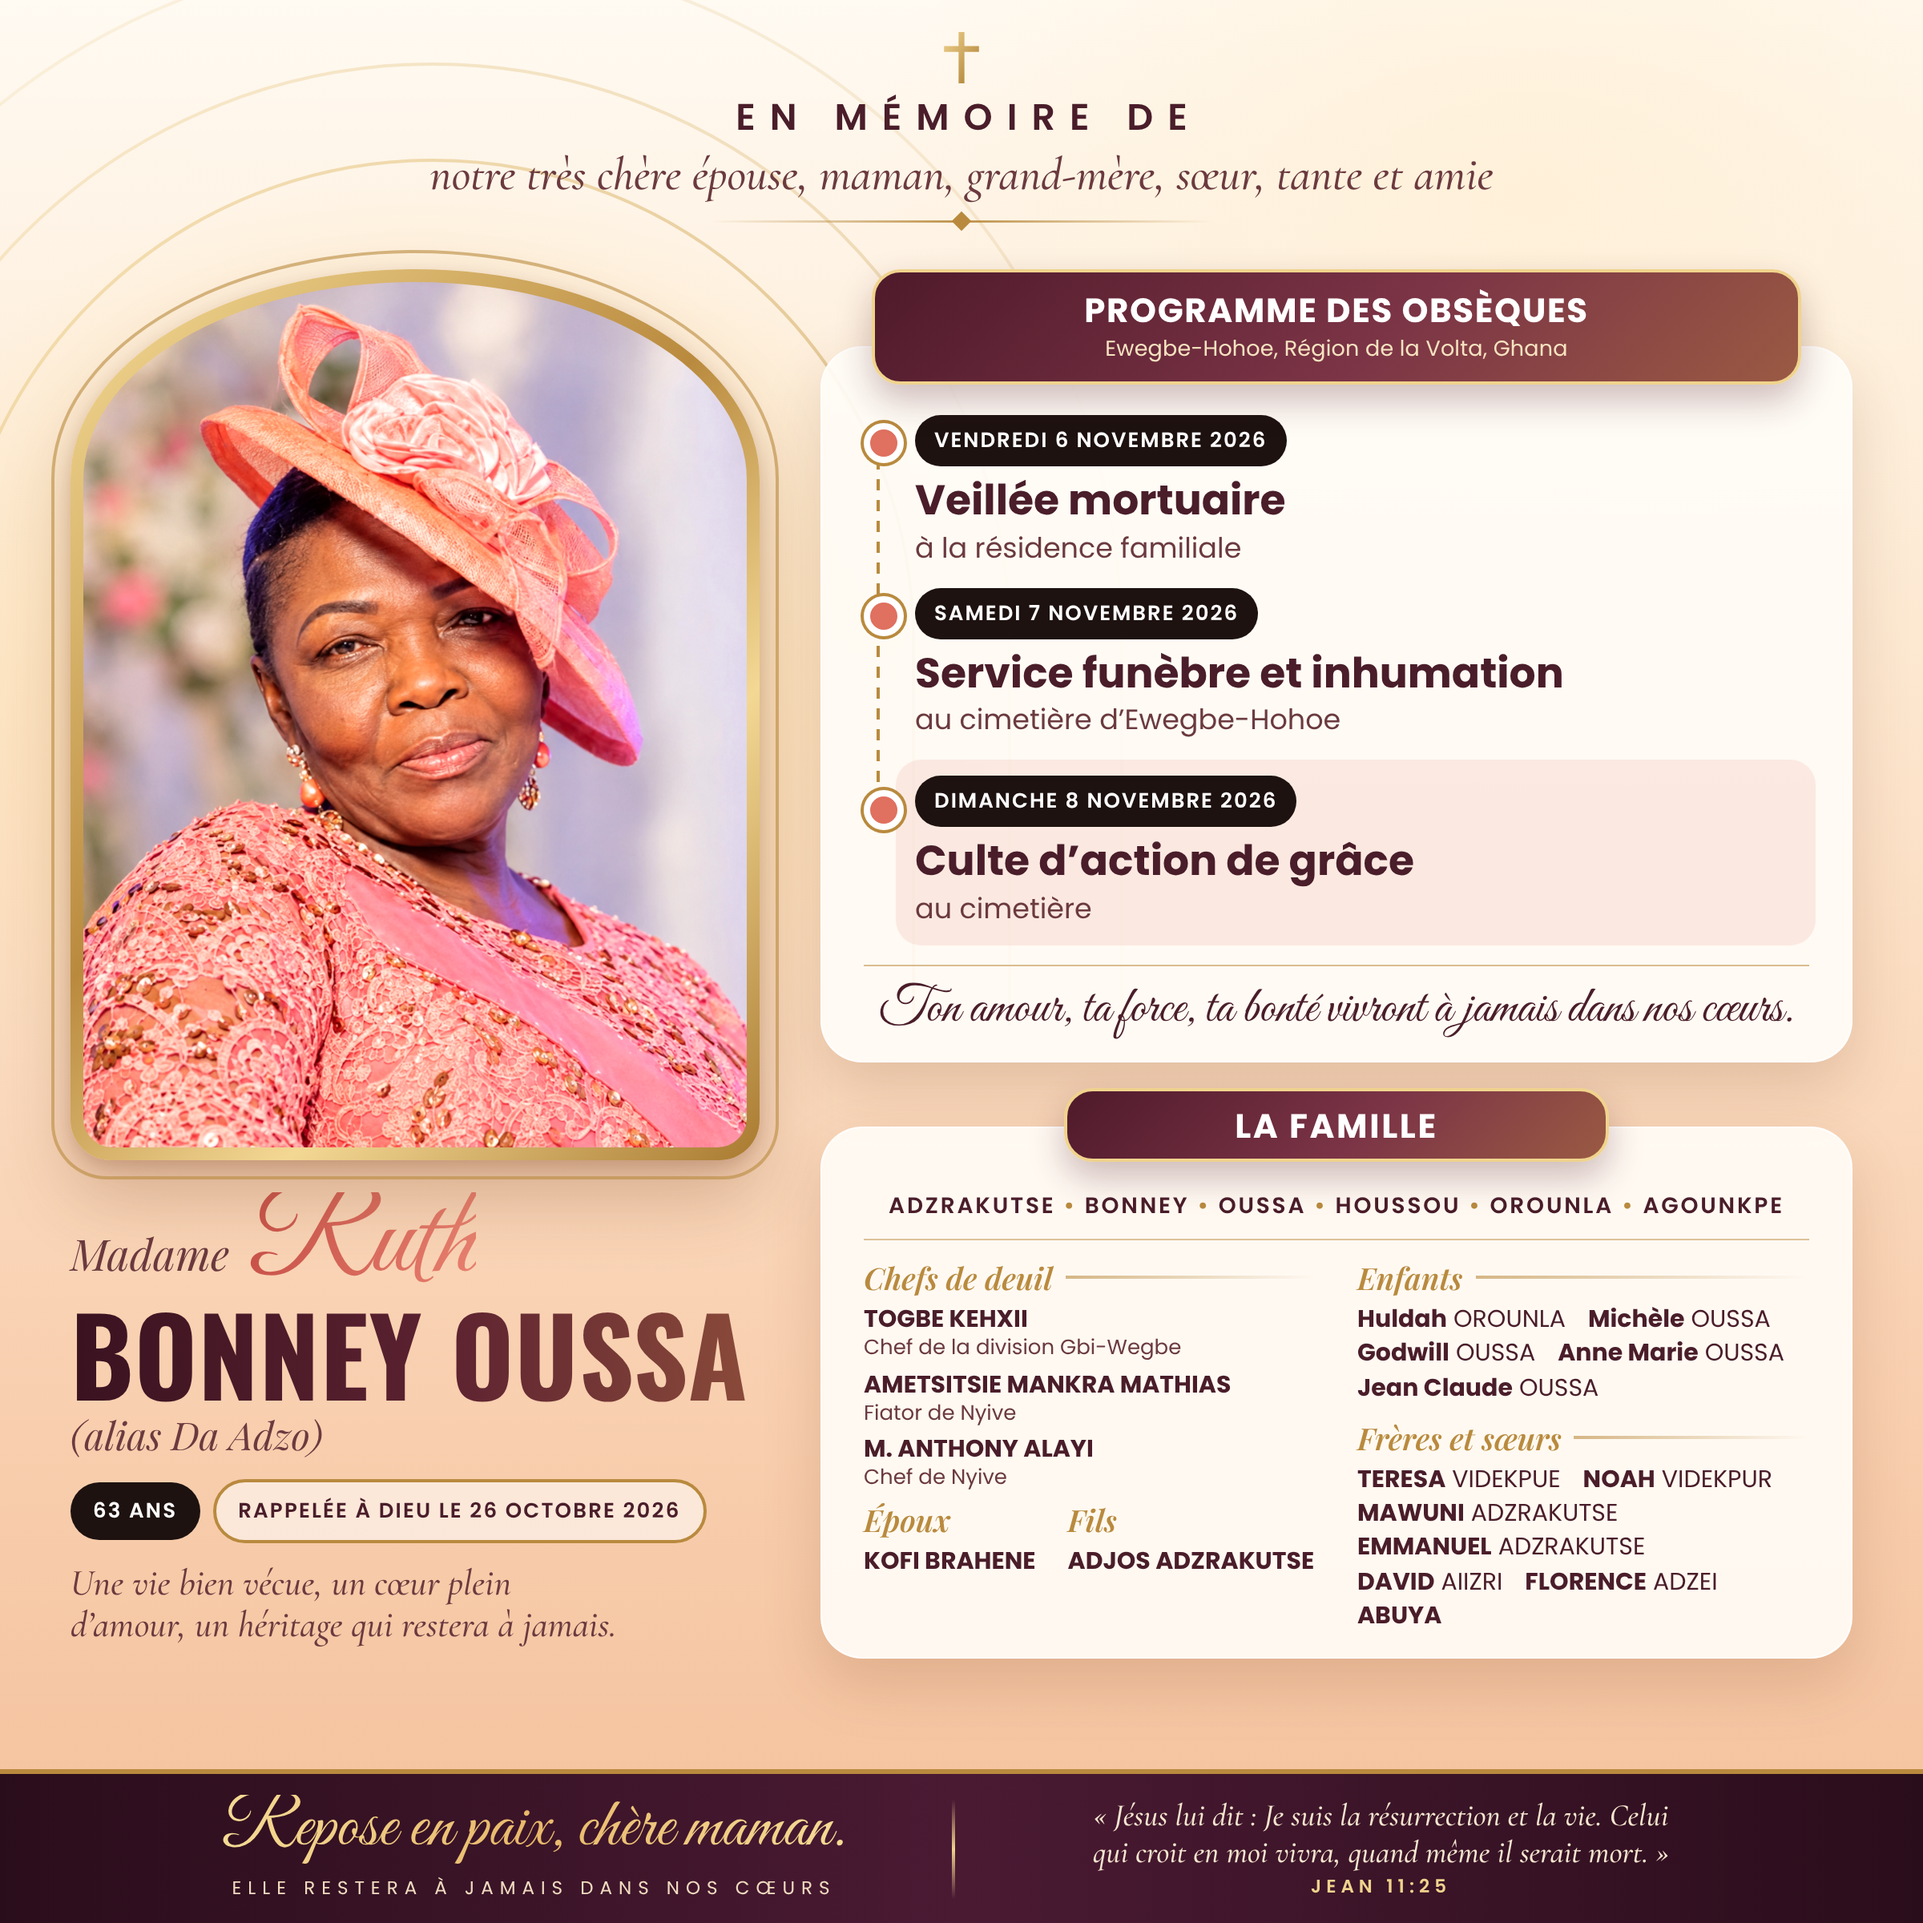
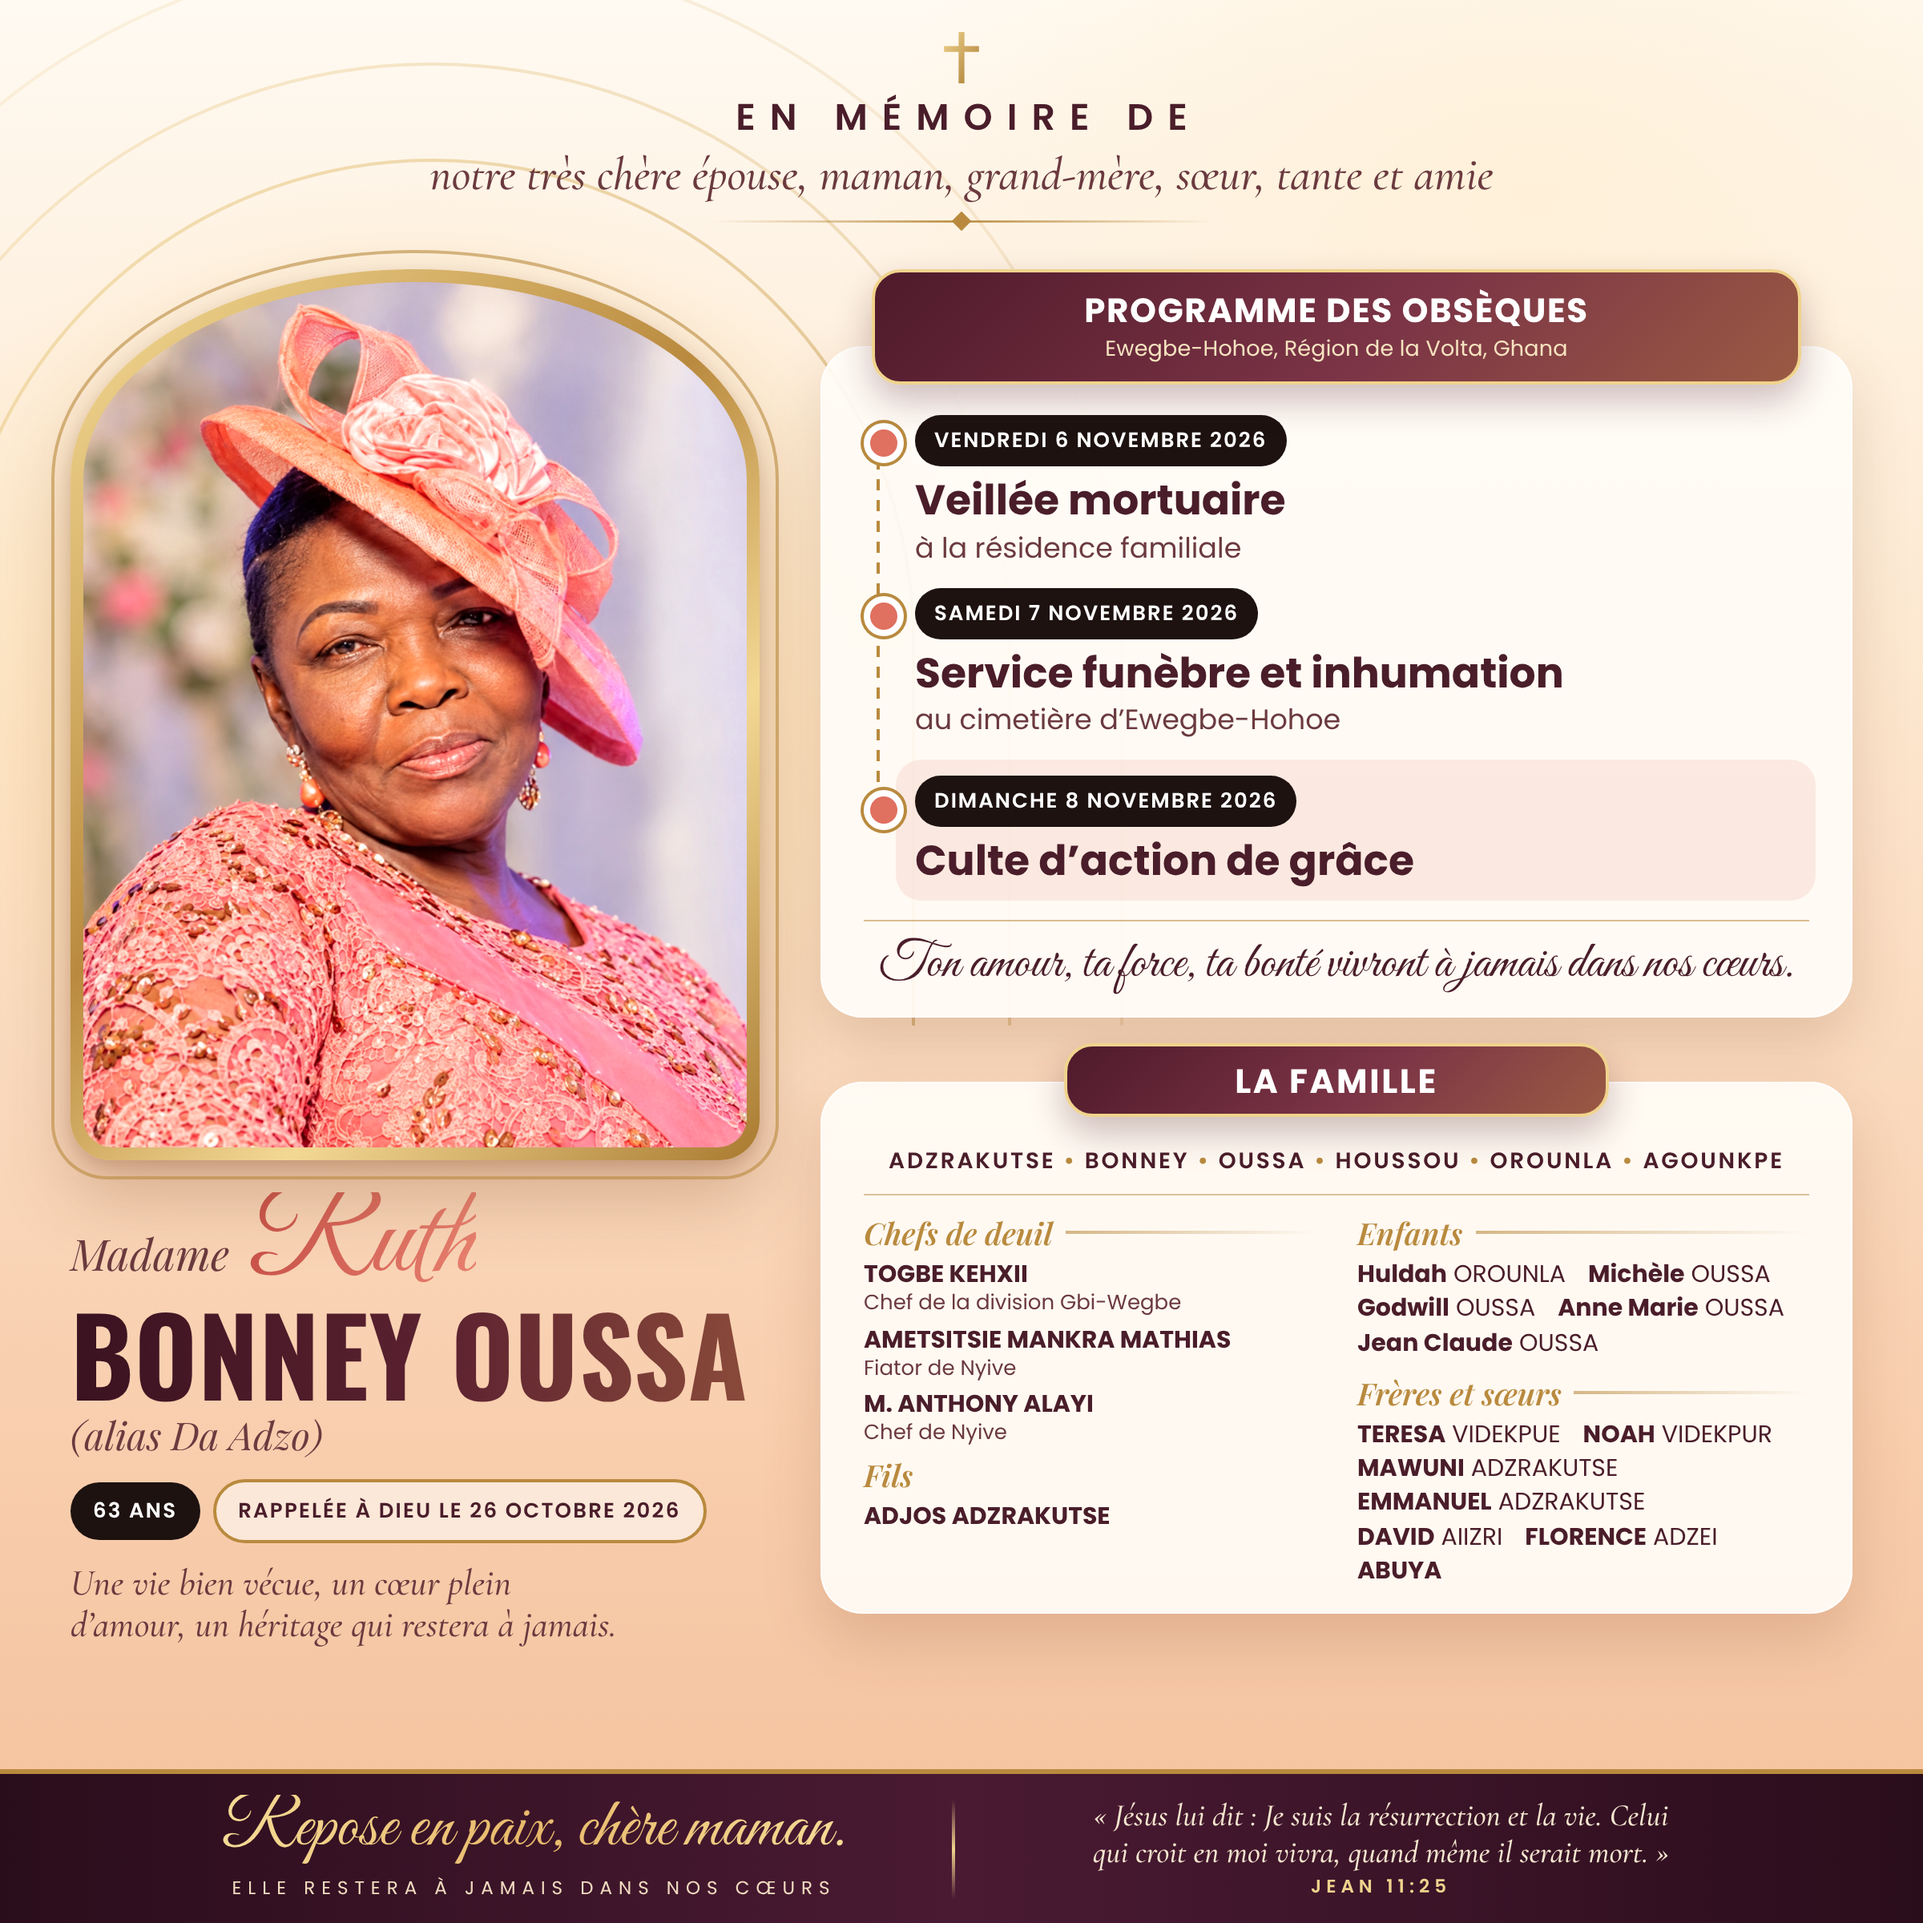
Poster: remove husband entry and thanksgiving service location (all versions)
Claude-Session: https://claude.ai/code/session_01K4EnF2A5EJ5axGxs2C2Gak

Changed region(s): [[0.4062, 0.4688, 0.9688, 0.875]]

diff --git a/affiche-ruth-bonney-oussa/src/affiche-fr-square.html b/affiche-ruth-bonney-oussa/src/affiche-fr-square.html
@@ -147,7 +147,7 @@ footer .jn b{display:block;font-family:'Poppins',sans-serif;font-style:normal;fo
           <div class="tl-line"></div>
           <div class="item"><span class="pill">VENDREDI 6 NOVEMBRE 2026</span><h3>Veillée mortuaire</h3><p>à la résidence familiale</p></div>
           <div class="item"><span class="pill">SAMEDI 7 NOVEMBRE 2026</span><h3>Service funèbre et inhumation</h3><p>au cimetière d’<span style="white-space:nowrap">Ewegbe-Hohoe</span></p></div>
-          <div class="item last"><span class="pill">DIMANCHE 8 NOVEMBRE 2026</span><h3>Culte d’action de grâce</h3><p>au cimetière</p></div>
+          <div class="item last"><span class="pill">DIMANCHE 8 NOVEMBRE 2026</span><h3>Culte d’action de grâce</h3></div>
         </div>
         <div class="verse">Ton amour, ta force, ta bonté vivront à jamais dans nos cœurs.</div>
       </div>
@@ -165,7 +165,6 @@ footer .jn b{display:block;font-family:'Poppins',sans-serif;font-style:normal;fo
           <p><b>AMETSITSIE MANKRA MATHIAS</b><small>Fiator de Nyive</small></p>
           <p><b>M. ANTHONY ALAYI</b><small>Chef de Nyive</small></p>
           <div class="hs">
-            <div><h4>Époux</h4><p><b>KOFI BRAHENE</b></p></div>
             <div><h4>Fils</h4><p><b>ADJOS ADZRAKUTSE</b></p></div>
           </div>
         </div>

diff --git a/affiche-ruth-bonney-oussa/src/affiche-en-square.html b/affiche-ruth-bonney-oussa/src/affiche-en-square.html
@@ -147,7 +147,7 @@ footer .jn b{display:block;font-family:'Poppins',sans-serif;font-style:normal;fo
           <div class="tl-line"></div>
           <div class="item"><span class="pill">FRIDAY, 6 NOVEMBER 2026</span><h3>Wake-Keeping</h3><p>at the family residence</p></div>
           <div class="item"><span class="pill">SATURDAY, 7 NOVEMBER 2026</span><h3>Funeral Service and Burial</h3><p>at the cemetery in <span style="white-space:nowrap">Ewegbe-Hohoe</span></p></div>
-          <div class="item last"><span class="pill">SUNDAY, 8 NOVEMBER 2026</span><h3>Thanksgiving Service</h3><p>at the cemetery</p></div>
+          <div class="item last"><span class="pill">SUNDAY, 8 NOVEMBER 2026</span><h3>Thanksgiving Service</h3></div>
         </div>
         <div class="verse">Your love, your strength, your kindness will forever live in our hearts.</div>
       </div>
@@ -165,7 +165,6 @@ footer .jn b{display:block;font-family:'Poppins',sans-serif;font-style:normal;fo
           <p><b>AMETSITSIE MANKRA MATHIAS</b><small>Fiator de Nyive</small></p>
           <p><b>M. ANTHONY ALAYI</b><small>Head of Nyive</small></p>
           <div class="hs">
-            <div><h4>Husband</h4><p><b>KOFI BRAHENE</b></p></div>
             <div><h4>Son</h4><p><b>ADJOS ADZRAKUTSE</b></p></div>
           </div>
         </div>

diff --git a/affiche-ruth-bonney-oussa/src/affiche-fr.html b/affiche-ruth-bonney-oussa/src/affiche-fr.html
@@ -195,7 +195,7 @@ footer .jn b{display:block;font-family:'Poppins',sans-serif;font-style:normal;fo
           <div class="tl-line"></div>
           <div class="item"><span class="pill">VENDREDI 6 NOVEMBRE 2026</span><h3>Veillée mortuaire</h3><p>à la résidence familiale</p></div>
           <div class="item"><span class="pill">SAMEDI 7 NOVEMBRE 2026</span><h3>Service funèbre et inhumation</h3><p>au cimetière d’<span style="white-space:nowrap">Ewegbe-Hohoe</span></p></div>
-          <div class="item last"><span class="pill">DIMANCHE 8 NOVEMBRE 2026</span><h3>Culte d’action de grâce</h3><p>au cimetière</p></div>
+          <div class="item last"><span class="pill">DIMANCHE 8 NOVEMBRE 2026</span><h3>Culte d’action de grâce</h3></div>
         </div>
         <div class="verse">Ton amour, ta force, ta bonté vivront à jamais dans nos cœurs.</div>
       </div>
@@ -217,7 +217,6 @@ footer .jn b{display:block;font-family:'Poppins',sans-serif;font-style:normal;fo
       <div class="cols">
         <div class="col">
           <div class="hs">
-            <div><h4>Époux</h4><p><b>KOFI BRAHENE</b></p></div>
             <div><h4>Fils</h4><p><b>ADJOS ADZRAKUTSE</b></p></div>
           </div>
           <h4>Enfants</h4>

diff --git a/affiche-ruth-bonney-oussa/src/affiche-en.html b/affiche-ruth-bonney-oussa/src/affiche-en.html
@@ -195,7 +195,7 @@ footer .jn b{display:block;font-family:'Poppins',sans-serif;font-style:normal;fo
           <div class="tl-line"></div>
           <div class="item"><span class="pill">FRIDAY, 6 NOVEMBER 2026</span><h3>Wake-Keeping</h3><p>at the family residence</p></div>
           <div class="item"><span class="pill">SATURDAY, 7 NOVEMBER 2026</span><h3>Funeral Service and Burial</h3><p>at the cemetery in <span style="white-space:nowrap">Ewegbe-Hohoe</span></p></div>
-          <div class="item last"><span class="pill">SUNDAY, 8 NOVEMBER 2026</span><h3>Thanksgiving Service</h3><p>at the cemetery</p></div>
+          <div class="item last"><span class="pill">SUNDAY, 8 NOVEMBER 2026</span><h3>Thanksgiving Service</h3></div>
         </div>
         <div class="verse">Your love, your strength, your kindness will forever live in our hearts.</div>
       </div>
@@ -217,7 +217,6 @@ footer .jn b{display:block;font-family:'Poppins',sans-serif;font-style:normal;fo
       <div class="cols">
         <div class="col">
           <div class="hs">
-            <div><h4>Husband</h4><p><b>KOFI BRAHENE</b></p></div>
             <div><h4>Son</h4><p><b>ADJOS ADZRAKUTSE</b></p></div>
           </div>
           <h4>Children</h4>

diff --git a/affiche-ruth-bonney-oussa/src/template-square.html b/affiche-ruth-bonney-oussa/src/template-square.html
@@ -147,7 +147,7 @@ footer .jn b{display:block;font-family:'Poppins',sans-serif;font-style:normal;fo
           <div class="tl-line"></div>
           <div class="item"><span class="pill">{{d1}}</span><h3>{{t1}}</h3><p>{{p1}}</p></div>
           <div class="item"><span class="pill">{{d2}}</span><h3>{{t2}}</h3><p>{{p2}}</p></div>
-          <div class="item last"><span class="pill">{{d3}}</span><h3>{{t3}}</h3><p>{{p3}}</p></div>
+          <div class="item last"><span class="pill">{{d3}}</span><h3>{{t3}}</h3></div>
         </div>
         <div class="verse">{{lovequote}}</div>
       </div>
@@ -165,7 +165,6 @@ footer .jn b{display:block;font-family:'Poppins',sans-serif;font-style:normal;fo
           <p><b>AMETSITSIE MANKRA MATHIAS</b><small>{{m2}}</small></p>
           <p><b>M. ANTHONY ALAYI</b><small>{{m3}}</small></p>
           <div class="hs">
-            <div><h4>{{h_husband}}</h4><p><b>KOFI BRAHENE</b></p></div>
             <div><h4>{{h_son}}</h4><p><b>ADJOS ADZRAKUTSE</b></p></div>
           </div>
         </div>

diff --git a/affiche-ruth-bonney-oussa/src/template.html b/affiche-ruth-bonney-oussa/src/template.html
@@ -195,7 +195,7 @@ footer .jn b{display:block;font-family:'Poppins',sans-serif;font-style:normal;fo
           <div class="tl-line"></div>
           <div class="item"><span class="pill">{{d1}}</span><h3>{{t1}}</h3><p>{{p1}}</p></div>
           <div class="item"><span class="pill">{{d2}}</span><h3>{{t2}}</h3><p>{{p2}}</p></div>
-          <div class="item last"><span class="pill">{{d3}}</span><h3>{{t3}}</h3><p>{{p3}}</p></div>
+          <div class="item last"><span class="pill">{{d3}}</span><h3>{{t3}}</h3></div>
         </div>
         <div class="verse">{{lovequote}}</div>
       </div>
@@ -217,7 +217,6 @@ footer .jn b{display:block;font-family:'Poppins',sans-serif;font-style:normal;fo
       <div class="cols">
         <div class="col">
           <div class="hs">
-            <div><h4>{{h_husband}}</h4><p><b>KOFI BRAHENE</b></p></div>
             <div><h4>{{h_son}}</h4><p><b>ADJOS ADZRAKUTSE</b></p></div>
           </div>
           <h4>{{h_children}}</h4>
